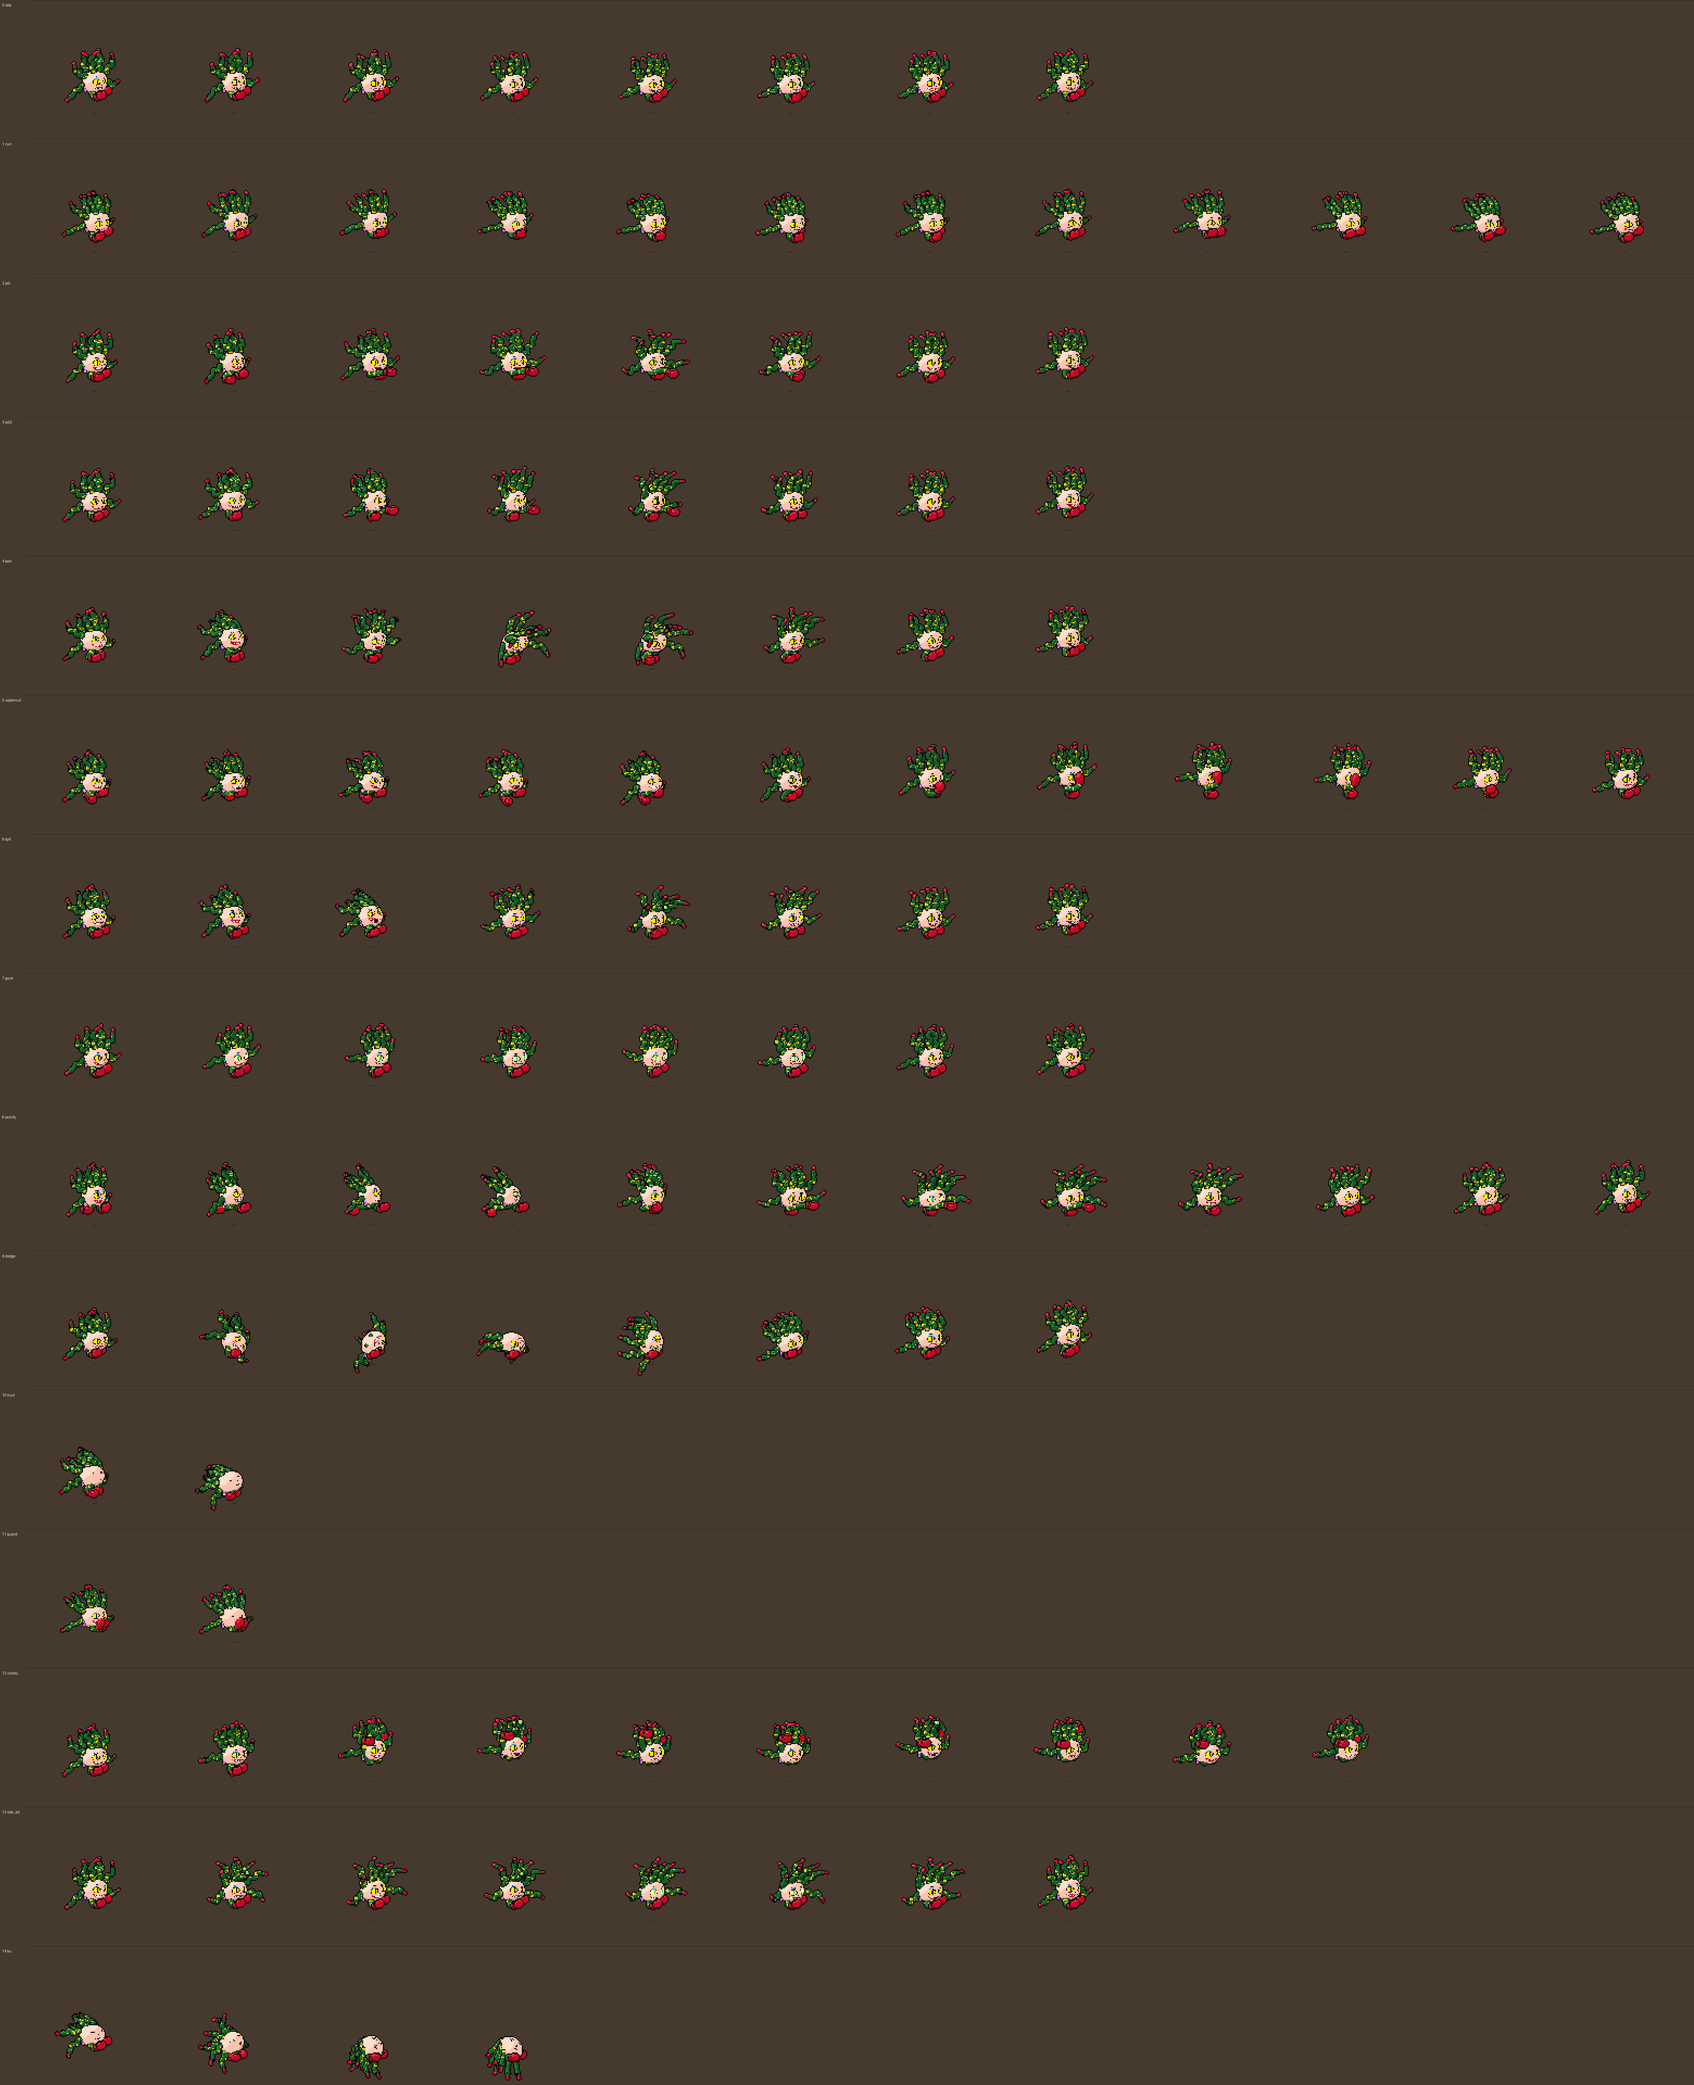
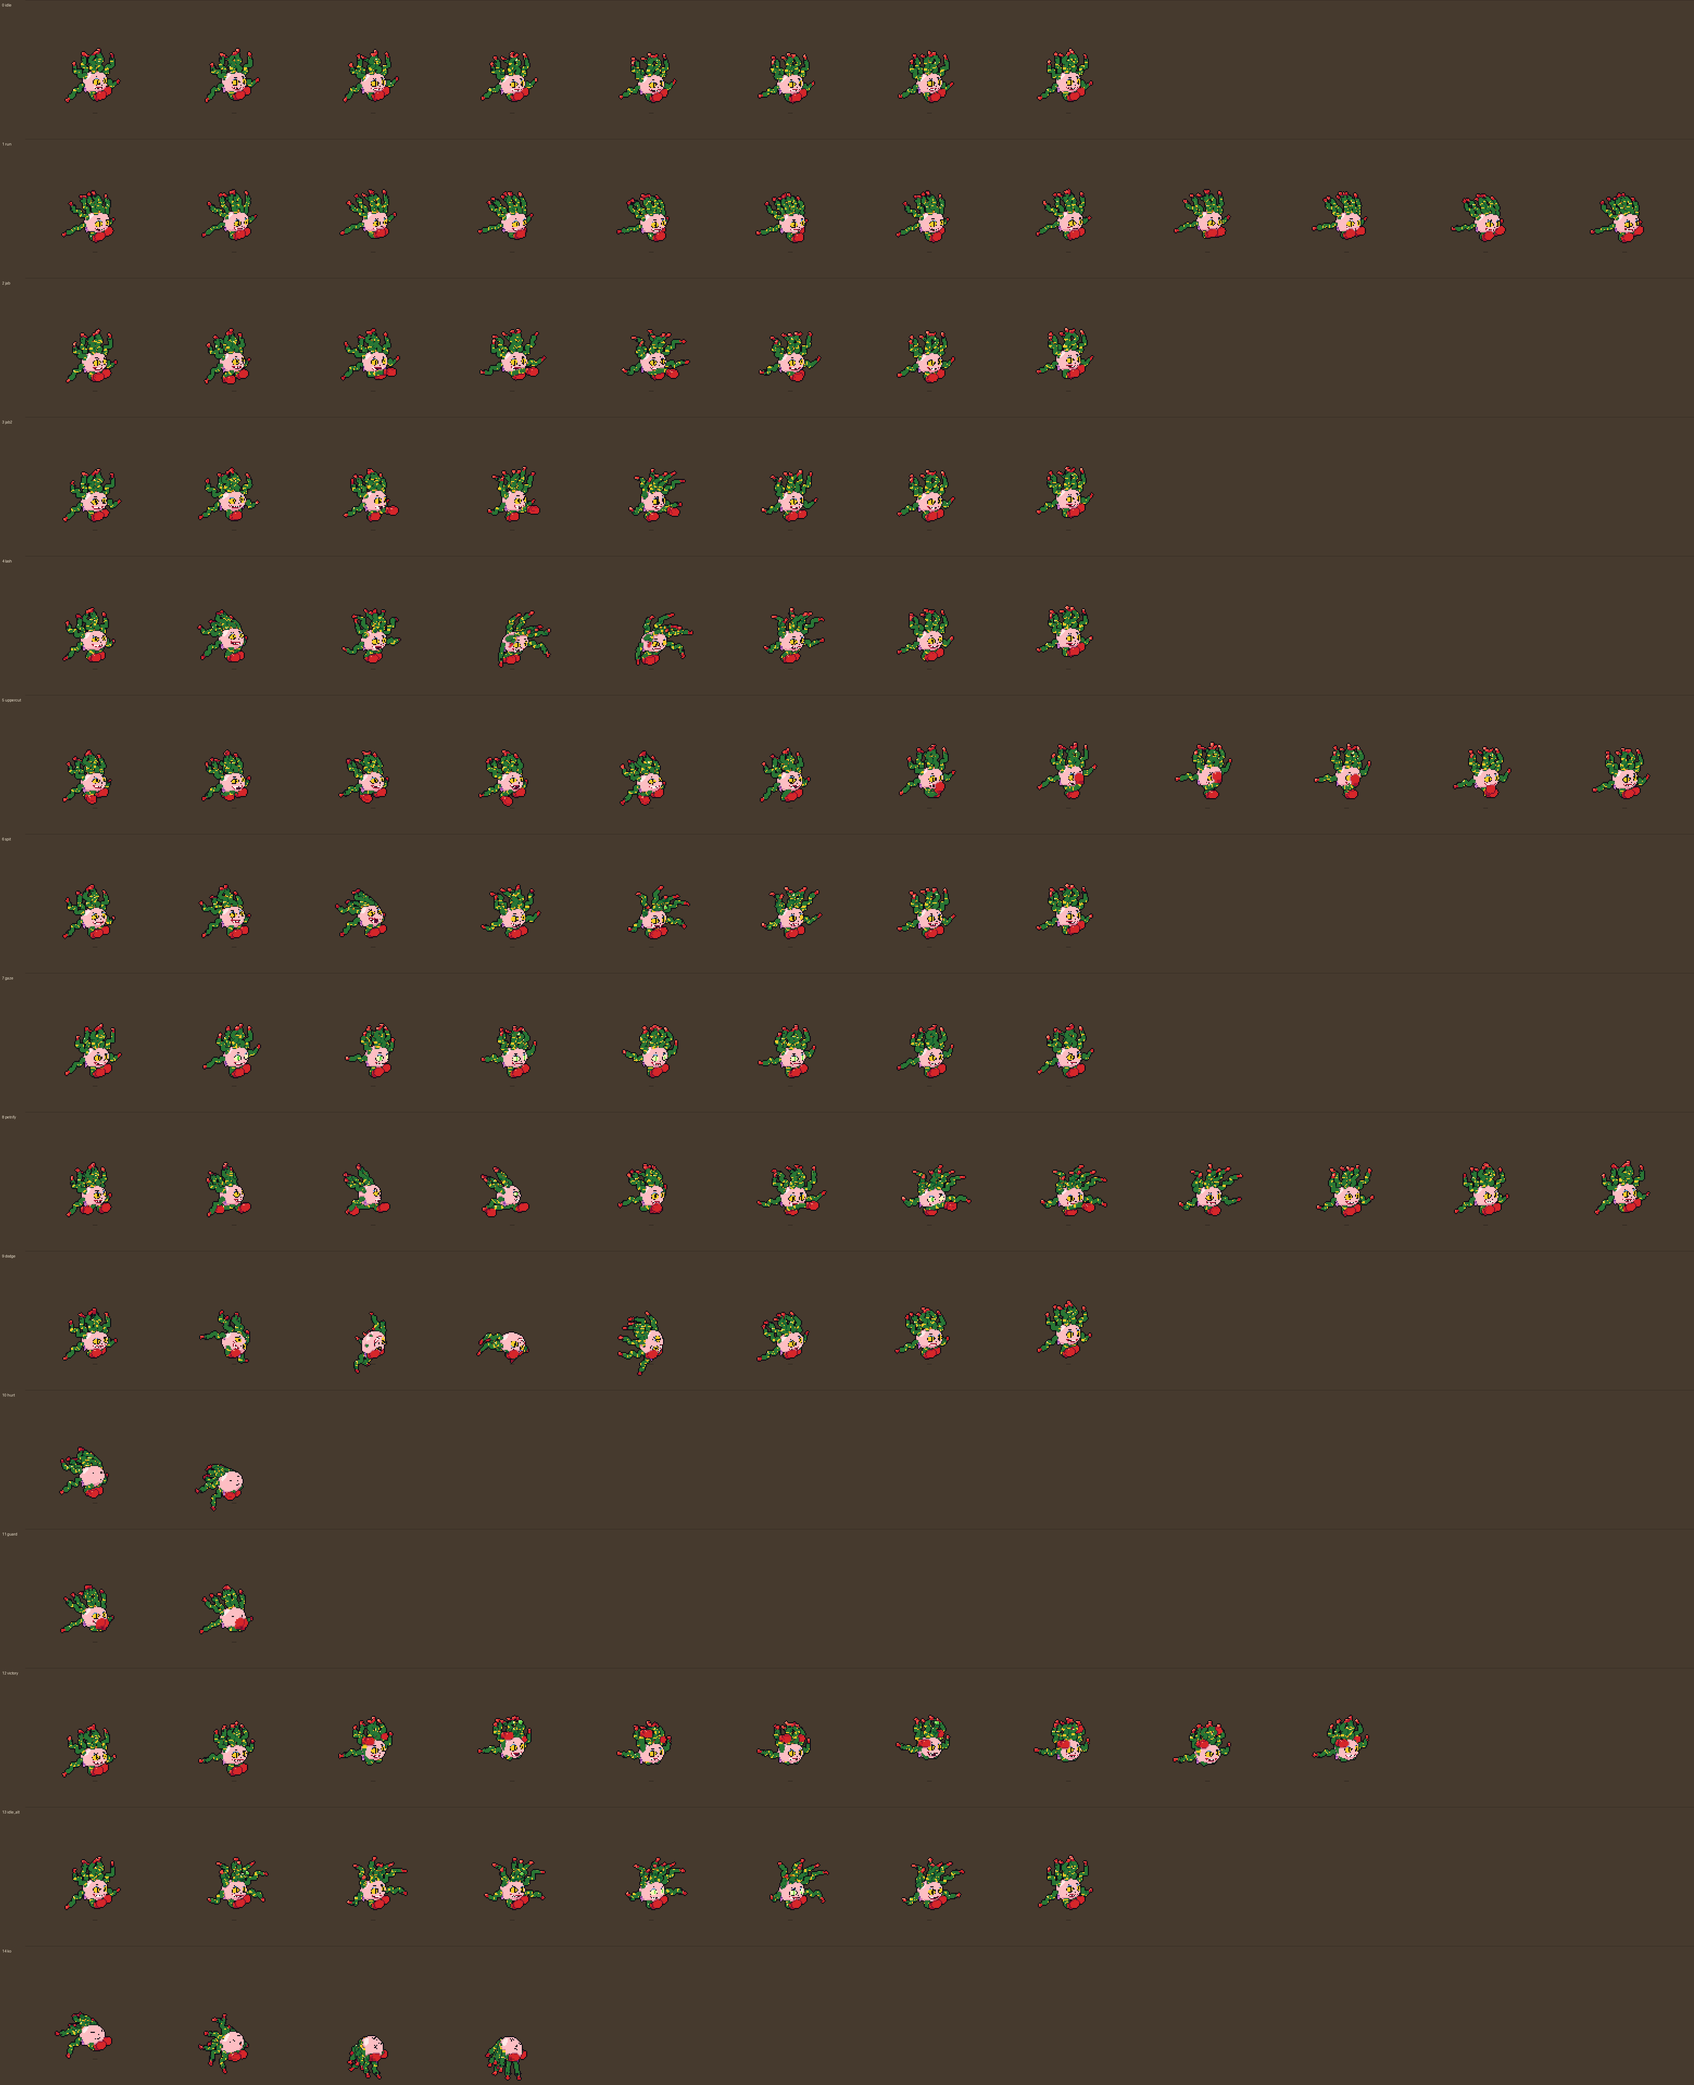
Hissy on the master palette: splat3d's shading and outlines on her buffers
Drops her private shade_buffers and outline: S.configure(MAT) on palette
ramps (pink+1 skin, the green line's dark end for the snakes, gold spots, red
gloves), skin, snakes, spots and gloves matte (light step = base, so the skin
doesn't go white). Silhouette black as on the sheet (S.INK), seams in each
material's deep step. The face texture is drawn in palette steps and steps
down its lines on the shadow side. Sheets regenerated; frame sizes, rows and
JSON unchanged.

diff --git a/tools/gen_hissy.py b/tools/gen_hissy.py
@@ -13,8 +13,9 @@ She is a big round head with a crown of spotted green hair snakes, a pair of red
 boxing gloves on the floor below, and two more snakes from under her chin down to the
 gloves (the "gloved snakes" of Snake Jab). Like Chef Cerebro's (tools/gen_cerebro.py),
 the rig is posed once in 3D and every piece is sampled densely as 3D points and
-splatted into a depth buffer, then shaded in three tones, outlined in black round the
-silhouette and along the seams between pieces. A point is (lat, up, fwd): lat toward
+splatted into a depth buffer, then shaded by splat3d's pass on master-palette ramps
+(tools/palette.py), outlined in black round the silhouette and in each material's deep
+step along the seams between pieces. A point is (lat, up, fwd): lat toward
 her right side, up off the floor, fwd the way she faces.
 
 The face (yellow slit eyes with blue eyeshadow, a cocked brow, the big zigzag grin) is
@@ -31,6 +32,10 @@ import sys
 import numpy as np
 from PIL import Image, ImageDraw
 
+sys.path.insert(0, os.path.dirname(os.path.abspath(__file__)))
+import palette as PAL  # noqa: E402  (P is the pose constructor below)
+import splat3d as S  # noqa: E402  (the shading and outline pass, and the animation tools)
+
 ROOT = os.path.abspath(os.path.join(os.path.dirname(__file__), ".."))
 OUT = os.path.join(ROOT, "assets", "sprites", "hissy.png")
 PREVIEW = os.path.join(ROOT, "docs", "hissy_preview.png")
@@ -45,19 +50,39 @@ VIEWS = {
     "up_side": {"w": 128, "h": 128, "origin": (64, 92)},
 }
 
-# Palette, sampled from the character sheet. Each material: (base, light, dark).
+# Palette: master-palette ramps (tools/palette.py) picked for the character sheet's
+# colours: pale peach skin, deep green snakes with gold spots, red gloves with darker
+# cuffs, lilac crystal earrings. Skin, snakes and spots light only in the highlight (the
+# light step is the base again): their lit side is most of each piece, and a full light
+# step there turns the skin white and the snakes grass-green (lost on the green arenas).
+
+
+def _matte(name, shift=0):
+    """A ramp whose light step is its base: lit side base, a small highlight on top."""
+    r = PAL.ramp(name, shift)
+    return [r[0], r[1], r[2], r[2], r[4] if r[4] != r[3] else r[3]]
+
+
+_G = PAL.LINES["green"]
 MAT = {
-    "skin": ((250, 196, 176), (255, 222, 204), (222, 158, 140)),
-    "snake": ((22, 92, 36), (44, 132, 56), (10, 60, 22)),
-    "spot": ((240, 196, 20), (255, 230, 90), (196, 150, 10)),
-    "eye_snake": ((14, 12, 14), (14, 12, 14), (14, 12, 14)),
-    "tongue": ((200, 16, 50), (236, 60, 80), (150, 10, 36)),
-    "venom": ((150, 230, 90), (210, 255, 150), (90, 170, 50)),
-    "glove": ((196, 10, 36), (236, 52, 66), (138, 6, 26)),
-    "cuff": ((170, 8, 30), (210, 40, 56), (120, 4, 22)),
-    "earring": ((196, 120, 220), (230, 170, 250), (140, 80, 170)),
+    "skin": _matte("pink", 1),    # the pink line's peach-pink step (Pete's skin is a step deeper)
+    # the green line's dark end, the sheet's deep snake green; its deep step from the moss
+    # line, which runs a step darker than the green line's end
+    "snake": [PAL.LINES["moss"][0], _G[0], _G[1], _G[1], _G[2]],
+    "spot": _matte("gold"),
+    "eye_snake": PAL.flat("ink"),
+    "tongue": "red",
+    "venom": "lime",
+    "glove": _matte("red"),       # crimson, not the red line's salmon light step
+    "cuff": ("red", -1),
+    "earring": ("violet", 1),
 }
-OUTLINE = (14, 12, 14, 255)  # the sheet's black line
+OUTLINE = PAL.INKS["ink"] + (255,)  # the sheet's black line
+# Shading, seams and outlines are splat3d's pass on this rig's buffers. The silhouette
+# stays black all round, as on the sheet (every material's ink is the black line); seams
+# inside it are each material's deep step, like the other fighters.
+S.configure(MAT)
+S.INK = {name: OUTLINE[:3] for name in MAT}
 MAT_ID = {name: i + 1 for i, name in enumerate(MAT)}
 ID_MAT = {i: name for name, i in MAT_ID.items()}
 
@@ -399,10 +424,36 @@ def _deg(az, el):
     return (az + 180.0, 90.0 - el)
 
 
+# The face's colours, all on the master palette (each a step on one of its lines, so the
+# face's shadow side is the step below: _step_down).
+FACE = {
+    "line": PAL.INKS["ink"] + (255,),
+    "eye": PAL.LINES["gold"][2] + (255,),
+    "eye_glow": PAL.LINES["gold"][4] + (255,),     # Petrify Gaze: the eyes light up
+    "pupil_glow": PAL.LINES["lime"][2] + (255,),
+    "glint": PAL.LINES["neutral"][10] + (255,),
+    "shadow": PAL.LINES["sky"][4] + (255,),        # the blue eyeshadow
+    "lips": PAL.LINES["red"][1] + (255,),
+    "teeth": PAL.LINES["neutral"][9] + (255,),
+    "mouth": PAL.LINES["wine"][1] + (255,),
+    "tongue": PAL.LINES["red"][3] + (255,),
+}
+
+
+def _step_down(rgb):
+    """The palette colour one step darker on rgb's own line (itself if it's an ink or a
+    line's darkest)."""
+    for cols in PAL.LINES.values():
+        if rgb in cols:
+            k = cols.index(rgb)
+            return cols[max(0, k - 1)]
+    return rgb
+
+
 def face_texture(expr):
     img = Image.new("RGBA", (TEX_W, TEX_H), (0, 0, 0, 0))
     d = ImageDraw.Draw(img)
-    blk = (14, 12, 14, 255)
+    blk = FACE["line"]
     for side in (-1, 1):
         cx, cy = _deg(25 * side, 8)
         if expr == "ko":
@@ -416,13 +467,13 @@ def face_texture(expr):
         glow = expr == "gaze"
         # the big yellow eye, outlined in black, with a slit pupil
         d.ellipse([cx - 18, cy - 15, cx + 18, cy + 15], fill=blk)
-        d.ellipse([cx - 15, cy - 12, cx + 15, cy + 12], fill=(255, 255, 140, 255) if glow else (255, 238, 0, 255))
+        d.ellipse([cx - 15, cy - 12, cx + 15, cy + 12], fill=FACE["eye_glow"] if glow else FACE["eye"])
         px = cx - 5 * side
-        d.ellipse([px - 3, cy - 11, px + 3, cy + 10], fill=(40, 200, 90, 255) if glow else blk)
+        d.ellipse([px - 3, cy - 11, px + 3, cy + 10], fill=FACE["pupil_glow"] if glow else blk)
         if glow:
-            d.ellipse([cx + 3, cy - 6, cx + 7, cy - 2], fill=(255, 255, 255, 255))
+            d.ellipse([cx + 3, cy - 6, cx + 7, cy - 2], fill=FACE["glint"])
         # blue eyeshadow arc above, and lashes
-        d.arc([cx - 13, cy - 20, cx + 13, cy + 2], 200, 340, fill=(0, 160, 235, 255), width=4)
+        d.arc([cx - 13, cy - 20, cx + 13, cy + 2], 200, 340, fill=FACE["shadow"], width=4)
         for k in range(3):
             lx = cx - 8 * side + k * 5 * side
             d.line([(lx, cy - 14), (lx - 2 * side, cy - 20)], fill=blk, width=2)
@@ -441,13 +492,13 @@ def face_texture(expr):
         top = [_deg(-22, -20), _deg(0, -22), _deg(24, -18), _deg(40, -12)]
         bot = [_deg(42, -16), _deg(26, -34 - open_), _deg(0, -38 - open_), _deg(-22, -26)]
         outer = top + bot
-        d.polygon(outer, fill=(190, 20, 40, 255))
+        d.polygon(outer, fill=FACE["lips"])
         inner_top = [_deg(-17, -23), _deg(0, -25), _deg(22, -21), _deg(35, -16)]
         inner_bot = [_deg(36, -19), _deg(24, -31 - open_), _deg(0, -34 - open_), _deg(-17, -27)]
-        d.polygon(inner_top + inner_bot, fill=(250, 250, 250, 255))
+        d.polygon(inner_top + inner_bot, fill=FACE["teeth"])
         if open_:
             d.polygon([_deg(-10, -29), _deg(20, -27), _deg(14, -36 - open_), _deg(-6, -36 - open_)],
-                      fill=(70, 10, 20, 255))
+                      fill=FACE["mouth"])
         zig = []
         for k in range(9):
             az = -16 + k * 6.3
@@ -458,7 +509,7 @@ def face_texture(expr):
         d.line([_deg(-14, -28), _deg(-5, -24), _deg(5, -30), _deg(14, -25), _deg(22, -29)], fill=blk, width=3)
     elif expr == "ko":
         d.ellipse([*_deg(-6, -22), *_deg(10, -34)], fill=blk)
-        d.ellipse([*_deg(-1, -30), *_deg(6, -40)], fill=(220, 60, 90, 255))  # tongue out
+        d.ellipse([*_deg(-1, -30), *_deg(6, -40)], fill=FACE["tongue"])  # tongue out
     return np.array(img)
 
 
@@ -466,8 +517,15 @@ _FACE_CACHE = {}
 
 
 def face_lookup(expr):
+    """The face texture and its shadow-side twin (every colour a step down its line)."""
     if expr not in _FACE_CACHE:
-        _FACE_CACHE[expr] = face_texture(expr)
+        tex = face_texture(expr)
+        dark = tex.copy()
+        cols = {tuple(int(v) for v in c) for c in tex[tex[:, :, 3] > 0][:, :3]}
+        for c in cols:
+            hit = np.all(tex[:, :, :3] == np.array(c, np.uint8), axis=2) & (tex[:, :, 3] > 0)
+            dark[hit, :3] = _step_down(c)
+        _FACE_CACHE[expr] = (tex, dark)
     return _FACE_CACHE[expr]
 
 
@@ -812,30 +870,6 @@ def rasterise(pose, view):
     }
 
 
-def shade_buffers(r):
-    cam = r["cam"]
-    mat = r["mat"]
-    filled = mat > 0
-    img = np.zeros((H, W, 4), np.uint8)
-    sd = cam.screen_dir(r["nrm"].reshape(-1, 3)).reshape(H, W, 3)
-    light = np.array([-0.55, -0.7, 0.45])
-    light /= np.linalg.norm(light)
-    lum = sd @ light
-    r["lum"] = lum
-    for name, mid in MAT_ID.items():
-        m = filled & (mat == mid)
-        if not m.any():
-            continue
-        base, li, dk = MAT[name]
-        col = np.zeros((H, W, 3), np.uint8)
-        col[:] = base
-        col[lum > 0.5] = li
-        col[lum < -0.12] = dk
-        img[m, :3] = col[m]
-        img[m, 3] = 255
-    return img
-
-
 def face(r, img):
     """Paints the face texture onto the head where it shows."""
     loc = r["local"]
@@ -844,46 +878,26 @@ def face(r, img):
     with np.errstate(invalid="ignore"):
         az = np.degrees(np.arctan2(loc[:, :, 0] / rl, loc[:, :, 2] / rf))
         el = np.degrees(np.arcsin(np.clip(loc[:, :, 1] / ru, -1.0, 1.0)))
-    tex = face_lookup(r["pose"].face)
+    tex, tex_dark = face_lookup(r["pose"].face)
     tx = np.clip(np.nan_to_num(az + 180.0).astype(int), 0, TEX_W - 1)
     ty = np.clip(np.nan_to_num(90.0 - el).astype(int), 0, TEX_H - 1)
     t = tex[ty, tx]
     m = skin & (t[:, :, 3] > 0)
-    # the shading of the skin carries over a little, so the features sit on a round head
-    lum = r["lum"]
-    shadow = m & (lum < -0.12)
-    out = t[:, :, :3].astype(np.int32)
-    out[shadow] = (out[shadow] * 0.78).astype(np.int32)
-    img[m, :3] = out[m].astype(np.uint8)
+    # the skin's shading carries over, so the features sit on a round head: on the shadow
+    # side of the terminator (splat3d's ramp level) each colour is a step down its line
+    shadow = m & (r["level"] <= 1)
+    out = t[:, :, :3].copy()
+    out[shadow] = tex_dark[ty, tx][shadow, :3]
+    img[m, :3] = out[m]
     img[m, 3] = 255
     return img
 
 
-def outline(r, img):
-    a = img.copy()
-    filled = a[:, :, 3] > 0
-    part = r["part"]
-    z = r["z"]
-    ring = np.zeros_like(filled)
-    for dx, dy in ((1, 0), (-1, 0), (0, 1), (0, -1)):
-        ring |= np.roll(np.roll(filled, dy, 0), dx, 1) & ~filled
-    a[ring] = OUTLINE
-    seam = np.zeros_like(filled)
-    for dx, dy in ((1, 0), (-1, 0), (0, 1), (0, -1)):
-        pz = np.roll(np.roll(z, dy, 0), dx, 1)
-        pp = np.roll(np.roll(part, dy, 0), dx, 1)
-        pf = np.roll(np.roll(filled, dy, 0), dx, 1)
-        with np.errstate(invalid="ignore"):
-            seam |= filled & pf & (pp != part) & (pz > z + 0.8)
-    a[seam] = OUTLINE
-    return a
-
-
 def render(pose, view):
     r = rasterise(pose, view)
-    img = shade_buffers(r)
+    img = S.shade(r)
     img = face(r, img)
-    img = outline(r, img)
+    img = S.outline(r, img)
     return Image.fromarray(img)
 
 
@@ -942,9 +956,6 @@ def ko():
 # the gloves trail the head, the glove snakes trail the gloves (`trail_arms`), the hair
 # sways as a wave down each snake and is thrown base first, tips last. The head squashes
 # up to 10% (flesh and scales). Hurt, guard and the knockout (above) are unchanged.
-
-sys.path.insert(0, os.path.dirname(os.path.abspath(__file__)))
-import splat3d as S  # noqa: E402  (the shared animation tools only; the renderer is this file's)
 
 TAU = 2.0 * math.pi
 # Gloves travel on curves between key poses; the face and the venom come whole.
@@ -1355,7 +1366,7 @@ def preview(sh, rows, fw, fh, origin, scale, path):
 # `python3 tools/gen_hissy.py anim` renders preview GIFs into docs/anim_preview/,
 # and `python3 tools/anim_preview.py --check hissy` checks the JSON's timelines against ROWS.
 # In-betweens and overlap come from splat3d (tween, cycle, lag, lag_at), which only touch
-# pose attributes; this generator's renderer is its own.
+# pose attributes; this generator's rasteriser is its own (its shading is splat3d's).
 ANIM_CYCLES = {"idle": 64, "run": 24}  # ticks per cycle (frames x idle_ticks / run_ticks)
 # The "current" side of the compare GIFs: main before the pass.
 OLD_REF = os.environ.get("HISSY_OLD_REF", "25d385d")
